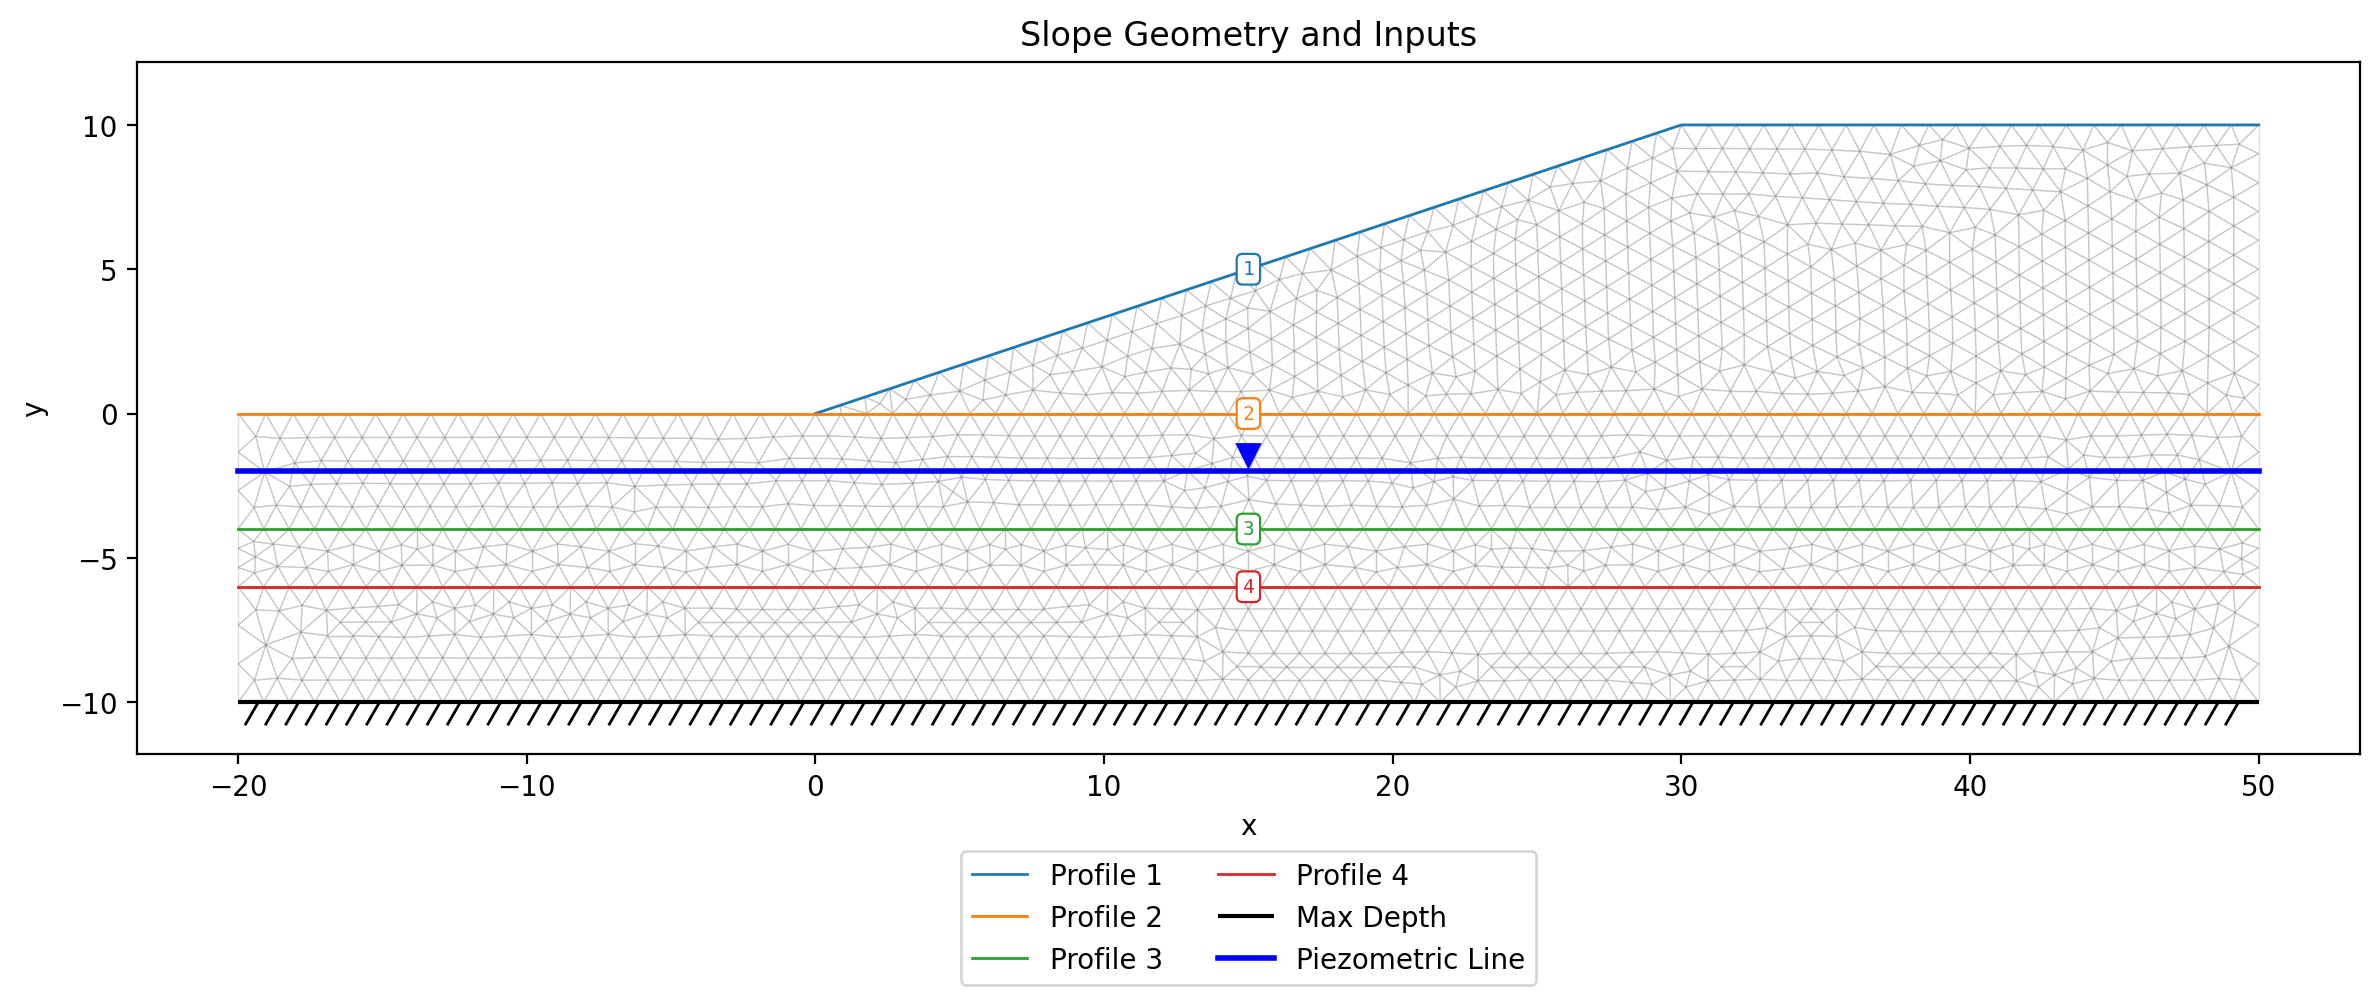
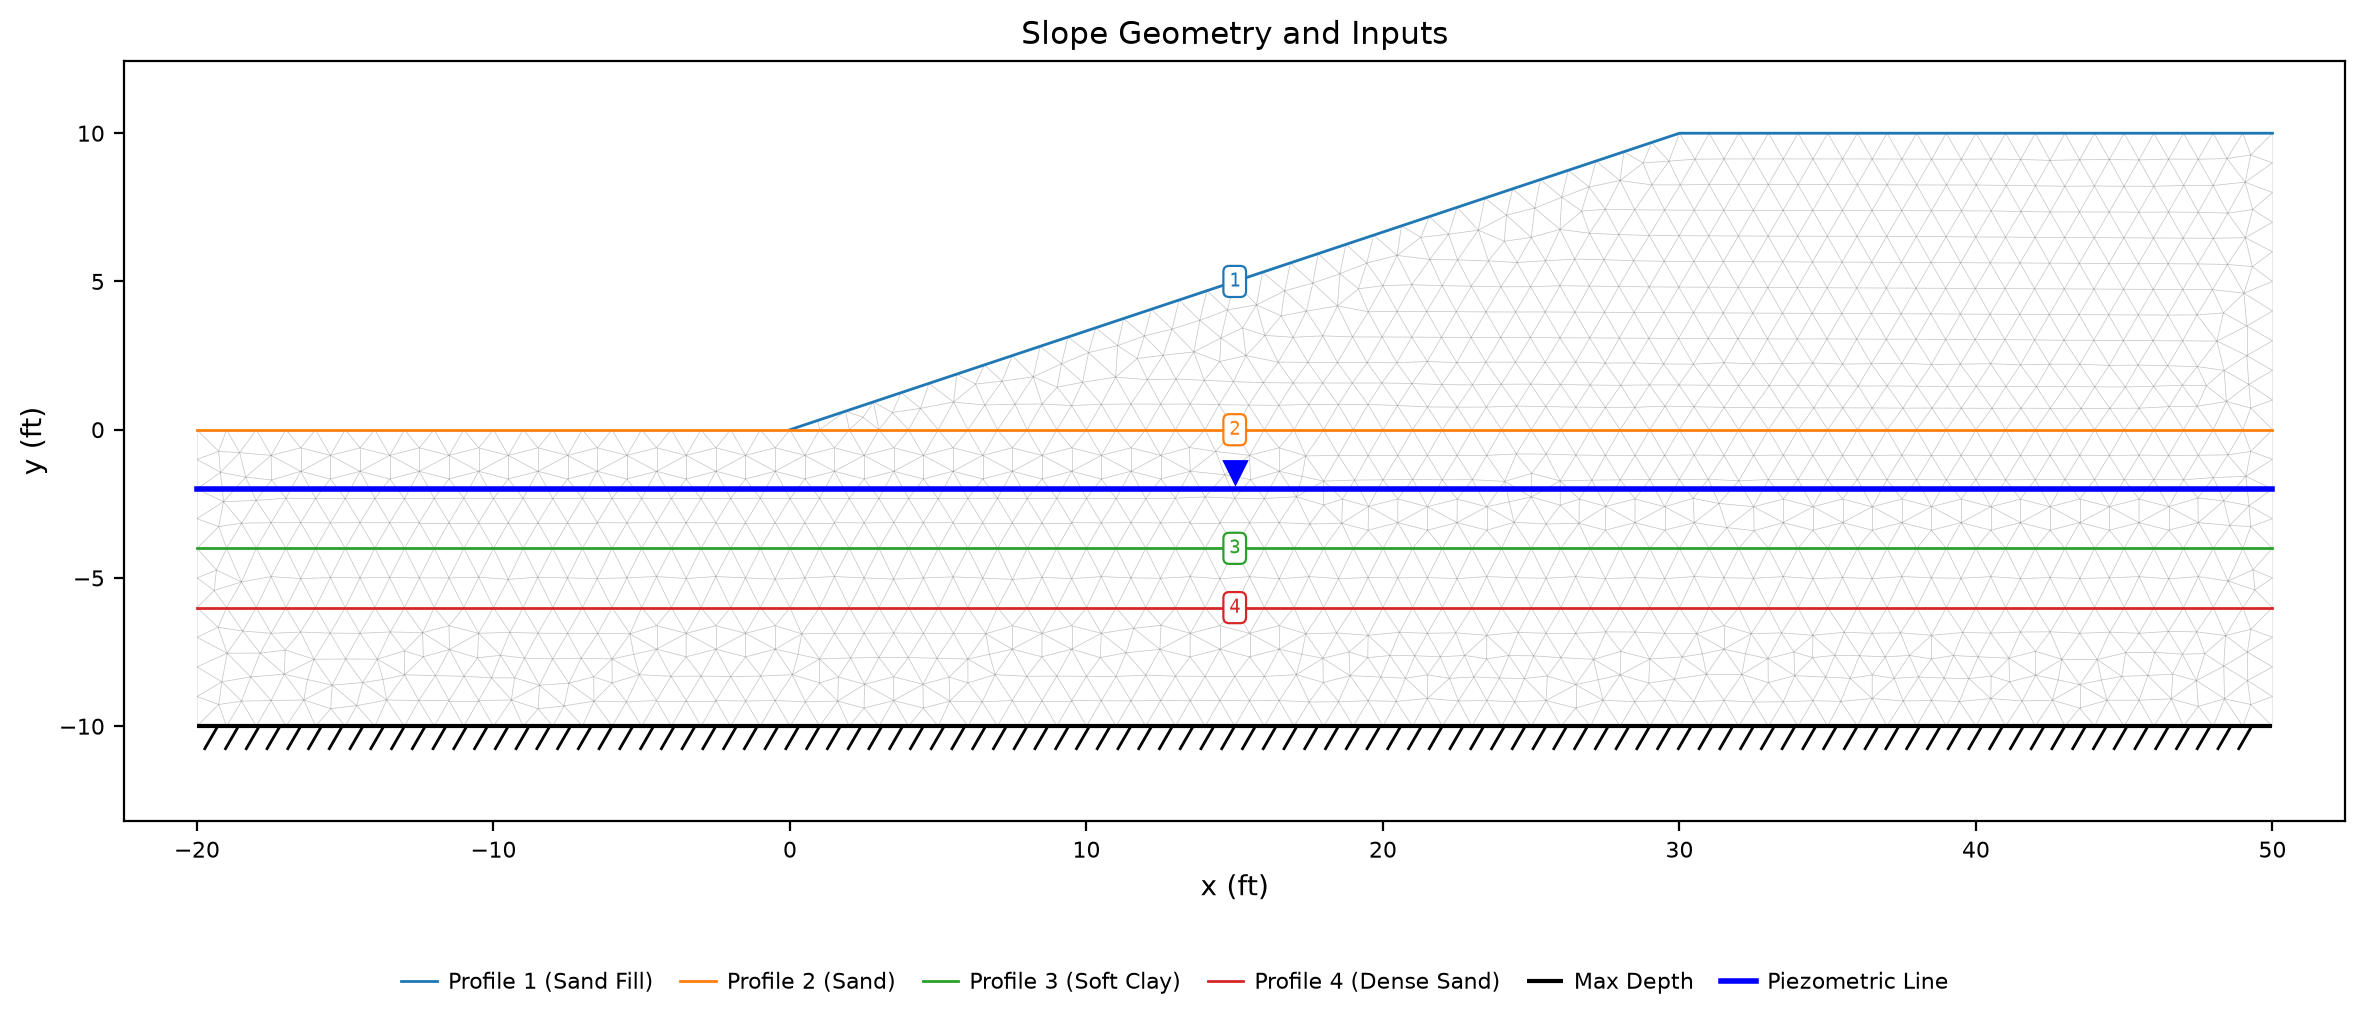
docs: remove unused figures and redraw FEM geometry from committed mesh

diff --git a/benchmarks/rocscience/make_rs2_figures.py b/benchmarks/rocscience/make_rs2_figures.py
@@ -183,54 +183,7 @@ EXTRA_CASES = [
 # This is a claim about the page, not a way to empty the audit, so it is enforced
 # both ways: an entry naming a row that is not registered, or a row that HAS a PNG,
 # is reported as a DEAD exemption and fails the audit exactly like a missing figure.
-EXPECTED_NO_FIGURE = {
-    # RS2-40's FE-seepage case under the depth filter: the filtered run reads one cell
-    # of its own bracket above the unconstrained one and selects the same mechanism,
-    # which RS2-40-seep.png already draws (values per the page tags).
-    'RS2-40-seep-d30': 'same mechanism as the unconstrained run in RS2-40-seep.png; the depth filter has no skin to remove',
-
-    # RS2-64 — C3 and C5 are the second and third short-term Original slopes. All
-    # three lock unconstrained on a simple convex profile and fail by the same deep
-    # rotation; C1 is figured.
-    'RS2-64c': 'same unconstrained deep rotation as C1 (RS2-64a.png); only the profile differs',
-    'RS2-64e': 'same unconstrained deep rotation as C1 (RS2-64a.png); only the profile differs',
-
-    # RS2-66 filter-off — the face skin is surface-parallel and does not depend on
-    # the soft-band thickness (the values are the page's tags, not repeated here).
-    # Both ends of the family are figured.
-    'RS2-66b': 'depth-independent face skin (values per the page tags); figured at both ends (RS2-66a.png, RS2-66e.png)',
-    'RS2-66c': 'depth-independent face skin (values per the page tags); figured at both ends (RS2-66a.png, RS2-66e.png)',
-    'RS2-66d': 'depth-independent face skin (values per the page tags); figured at both ends (RS2-66a.png, RS2-66e.png)',
-
-    # RS2-66 filtered — one deep basal squeeze through the soft band, figured at the
-    # thinnest band where it separates furthest from the skin.
-    'RS2-66b-deep': 'same deep basal squeeze as RS2-66a-deep.png, through a thicker soft band',
-    'RS2-66c-deep': 'same deep basal squeeze as RS2-66a-deep.png, through a thicker soft band',
-    'RS2-66d-deep': 'same deep basal squeeze as RS2-66a-deep.png, through a thicker soft band',
-    'RS2-66e-deep': 'at h1 = 10 m the filtered run selects the same mechanism as the unfiltered one (values per the page tags) — RS2-66e.png IS this run',
-
-    # RS2-67 — six drawdown stages of one dam, two mechanisms between them: the
-    # unconstrained downstream face, and the upstream face when RS2's Search Area
-    # confines reduction to it. One of each is figured.
-    'RS2-67a': 'same downstream-face mechanism as RS2-67b.png, with no pore-pressure field',
-    'RS2-67c': 'same unconstrained downstream-face mechanism as RS2-67b.png, at the 90 h field',
-    'RS2-67e': 'same unconstrained downstream-face mechanism as RS2-67b.png, at the drained limit',
-    'RS2-67f': 'same Search-Area-confined upstream mechanism as RS2-67d.png, at the drained limit',
-
-    # RS2-24 — each case is locked at two meshes. The coarser one selects the same
-    # deep-seated mechanism through the soft clay (values per the page tags); the
-    # finer mesh is what the figure draws.
-    'RS2-24a-m2.0': 'same mechanism as RS2-24a.png, one mesh step coarser',
-    'RS2-24b-m2.0': 'same mechanism as RS2-24b.png, one mesh step coarser',
-
-    # RS2 Part IV VP102 — the drawdown mechanism is one downstream-face wedge at every
-    # frame of a monotone sequence. One frame of each case is figured: the mid-sequence
-    # phi_b = 0 baseline frame, and the phi_b = 37 frame that sets the dot.
-    'RS2-P4-VP102-t-60-c2': 'same downstream-face wedge as RS2-P4-VP102-t-300-c2.png, at an earlier frame',
-    'RS2-P4-VP102-t-1500-c2': 'same downstream-face wedge as RS2-P4-VP102-t-300-c2.png, at a later frame',
-    'RS2-P4-VP102-t-60-c3': 'same downstream-face wedge as RS2-P4-VP102-t-1500-c3.png, at an earlier frame',
-    'RS2-P4-VP102-t-300-c3': 'same downstream-face wedge as RS2-P4-VP102-t-1500-c3.png, at an earlier frame',
-}
+EXPECTED_NO_FIGURE = {}
 
 
 # Sidecar stem overrides. ``make_figure`` writes the exported field next to the case

diff --git a/tools/make_fem_docs_sidecars.py b/tools/make_fem_docs_sidecars.py
@@ -40,6 +40,8 @@ are defined on.
     PYTHONPATH=. python3 tools/make_fem_docs_sidecars.py               # every model
     PYTHONPATH=. python3 tools/make_fem_docs_sidecars.py noncircular   # one
     PYTHONPATH=. python3 tools/make_fem_docs_sidecars.py --meshes-only # mesh only
+    PYTHONPATH=. python3 tools/make_fem_docs_sidecars.py --geometry-only noncircular
+        # redraw inputs and mesh from the committed companion, without a solve
     PYTHONPATH=. python3 tools/make_fem_docs_sidecars.py --capture-only reinforce
         # rewrite only the at-failure files, from the model's stored search
         # record: the standing trial and the picture are solved, the search is not
@@ -179,6 +181,41 @@ RESULTS_FIGURE = {
 #: The resolution docs/fem results figures are written at, as
 #: ``benchmarks/make_griffiths_figures.py`` writes its own.
 FIGURE_DPI = 200
+
+
+GEOMETRY_FIGURES = {
+    "noncircular": ("non_circ_inputs.png", "non_circ_mesh.png"),
+}
+
+
+def draw_geometry(name):
+    """Draw the model and its committed mesh; never remesh, solve or export data."""
+    import matplotlib
+    matplotlib.use("Agg")
+    import matplotlib.pyplot as plt
+    from xslope.plot import plot_inputs
+    from xslope.plot_fem import plot_fem_data
+
+    path = os.path.join(REPO_ROOT, "docs", "fem", "files", TAGGED[name])
+    slope_data = load_slope_data(path)
+    mesh = slope_data.get("mesh")
+    if mesh is None:
+        raise RuntimeError(f"{name}: no committed mesh companion to draw")
+    fem_data = _quiet(build_fem_data, slope_data, mesh)
+    out = os.path.join(REPO_ROOT, "docs", "fem", "images")
+    plots = (
+        (plot_inputs, slope_data,
+         {"mode": "fem", "show_mesh": True, "frame": "content"}),
+        (plot_fem_data, fem_data, {}),
+    )
+    for filename, (plot, data, kwargs) in zip(GEOMETRY_FIGURES[name], plots):
+        try:
+            _quiet(plot, data, fig=plt.figure(figsize=(12, 7)), **kwargs)
+            plt.gcf().savefig(os.path.join(out, filename), dpi=FIGURE_DPI,
+                             bbox_inches="tight")
+        finally:
+            plt.close("all")
+        print(f"{name}: wrote {filename} ({len(mesh['elements'])} elements)")
 
 
 def _draw_results(name, fem_data, field, failure, fs):
@@ -338,6 +375,8 @@ def build_tagged(name):
                  "max_iter": int(tag["max_iter"]),
                  "expected_fs": expected},
     })
+    if name in GEOMETRY_FIGURES:
+        draw_geometry(name)
     _draw_results(name, fem_data, result["last_solution"],
                   result.get("failure_solution"), expected)
     print(f"{name}: FS = {fs:.4f} (tag {expected:.3f}), "
@@ -421,6 +460,12 @@ def build_mesh_only(name):
 def main(argv):
     wanted = [a for a in argv if not a.startswith("-")]
     meshes_only = "--meshes-only" in argv
+    if "--geometry-only" in argv:
+        if any(name not in GEOMETRY_FIGURES for name in wanted):
+            raise ValueError("--geometry-only accepts: " + ", ".join(GEOMETRY_FIGURES))
+        for name in wanted or GEOMETRY_FIGURES:
+            draw_geometry(name)
+        return 0
     if "--capture-only" in argv:
         failed = 0
         for name in list(TAGGED) + list(UNTAGGED) + list(COMMITTED_MESH):

diff --git a/tools/make_seep_sample_figures.py b/tools/make_seep_sample_figures.py
@@ -1,6 +1,6 @@
 """Regenerate the steady seepage flow-net figures for docs/seep/samples.md.
 
-These six ``docs/seep/images/<name>_solution.png`` panels had no committed
+These four ``docs/seep/images/<name>_solution.png`` panels had no committed
 generator (they were one-off manual saves), so they drifted from the page's
 locked flowrates as the solver evolved. This script is their deterministic,
 committed source: each figure is produced by the *same* mesh-and-solve code path
@@ -16,7 +16,7 @@ Solve configuration (identical to run_seep_test's defaults, which is what every
     build_seep_data(mesh, slope_data)          # default seep_bc=1
     run_seepage_analysis(seep, tol=1e-4, max_iter=400)
 
-Figure sizing (one coherent rule for all six, per the house frame spec —
+Figure sizing (one coherent rule for all four, per the house frame spec —
 equal aspect, uniform cushion, full-height colorbar, legend in reserved space,
 all supplied unchanged by plot_seep_solution): a *fixed figure width* and *dpi*
 so every panel comes out the same pixel width, with the height following each
@@ -47,7 +47,7 @@ OUT = "docs/seep/images"
 
 # Coherent sizing rule (see module docstring): a fixed figure width in inches and
 # a fixed dpi give every panel the same pixel width; the height tracks the domain
-# aspect so the flow net stays at one consistent scale across all six figures.
+# aspect so the flow net stays at one consistent scale across all four figures.
 FIG_W_IN = 11.0     # figure width (inches) -> ~FIG_W_IN*DPI px wide after tight crop
 AXES_W_FRAC = 0.80  # fraction of the width the equal-aspect axes span (rest: y-axis
                     # margin on the left, colorbar + label on the right)
@@ -68,13 +68,11 @@ DPI = 200
 #   demand hundreds of flow lines), and the single/through-flow layer otherwise.
 #   Matches the flow-net densities of the pre-existing (Norm-approved) figures.
 CASES = [
-    ("clay_blanket",  False, 1),   # saturated: sheetpile + clay blanket (1 material)
     ("sea_trench",    False, 2),   # saturated: trench; the silty clay below the
                                    # banks is the through-flow layer (the silt is
                                    # the upper bank material)
     ("earth_dam1",    True,  2),   # partially saturated: shell + core; base = core
     ("earth_dam1_vg", True,  2),   # same dam, van Genuchten model; base = core
-    ("johnson_res",   True,  3),   # shell/core/foundation; base = foundation
     ("earth_dam2",    True,  3),   # shell/filter/core; base = core
 ]
 

diff --git a/tools/make_earth_dam_tseep_figures.py b/tools/make_earth_dam_tseep_figures.py
@@ -1,7 +1,7 @@
 """Render the figures for the transient reservoir-drawdown seepage samples
 (docs/seep/samples.md).
 
-One deterministic script serves both transient samples — each is solved once
+One deterministic script serves the Johnson transient sample — it is solved once
 (serial) and rendered into the figures its page carries, in docs/seep/images/:
 
   <sample>_flownet.png   The time-stamped transient series: a handful of panels
@@ -41,7 +41,7 @@ The flow-net panels are rendered one-per-figure through the unchanged
 losslessly with Pillow. Deterministic: same mesh, same solve, same frames.
 
 Run from the repo root:
-  PYTHONPATH=. python3 tools/make_earth_dam_tseep_figures.py            # both
+  PYTHONPATH=. python3 tools/make_earth_dam_tseep_figures.py            # Johnson
   PYTHONPATH=. python3 tools/make_earth_dam_tseep_figures.py johnson    # one
 """
 
@@ -79,18 +79,6 @@ IMG = os.path.join(REPO_ROOT, "docs", "seep", "images")
 # panels       (time, label) pairs to stack in the flow-net series figure.
 # panel_size   per-panel figsize (in), sized to the domain aspect.
 SAMPLES = {
-    "earth_dam": dict(
-        xlsx="xslope_earth_dam_tseep.xlsx",
-        stem="earth_dam_tseep",
-        target=110.0 / 64.0,
-        panel_size=(8.6, 2.55),
-        panels=[(0, "full pool"), (15, "early drawdown"), (30, "mid drawdown"),
-                (47, "end of drawdown (max lag)"), (120, "recovery"),
-                (360, "quasi-equilibrium")],
-        # SEEP-3 builds this model input by input, so the sample entry carries
-        # the solved series alone and no inputs panel of its own.
-        inputs=False,
-    ),
     "johnson": dict(
         xlsx="xslope_johnson_res_tseep.xlsx",
         stem="johnson_res_tseep",

diff --git a/benchmarks/build_lem_figures.py b/benchmarks/build_lem_figures.py
@@ -82,28 +82,9 @@ OTHER_OWNERS = {"hassiotis_inputs", "hassiotis_results",
 #: the weak-layer model. It was sample section 7's search figure until that
 #: section shrank to its solution and table; docs/lem/search.md shows it as the
 #: illustration of plot_noncircular_search_results().
-#:
-#: mult_min_degenerate is section 13's first figure — the degenerate near-planar
-#: sliver that section warns about. It is not the run behind that section's tag,
-#: which solves the deep foundation circle the file carries, so it is drawn here
-#: instead: the same search LEM-10 draws for the same model
-#: (docs/tutorials/images/lem10_search_shallow.png), seeded with the generated
-#: embankment circles — the starting circles tangent to the top of the
-#: foundation. That seed is what collapses onto the sliver at FS = 1.299, the
-#: "FS ~ 1.30" the section's caption names. A search seeded with the deep circle
-#: on the file's own circles sheet no longer reaches the sliver at all.
-#:
-#: prob_submerged_reliability is section 15's figure: the Taylor-series run its
-#: first test tag locks (Spencer, searched), drawn with the F_MLV surface the
-#: page's summary table is read off.
 EXTRA_FIGURES = [
     dict(name="noncircular_search_results", xlsx="files/xslope_noncircular.xlsx",
          kind="search_results", ttype="noncircular_search"),
-    dict(name="mult_min_degenerate", xlsx="files/xslope_mult_min_KEY.xlsx",
-         kind="search_results", ttype="circular_search",
-         circles="generated_embankment"),
-    dict(name="prob_submerged_reliability",
-         xlsx="files/xslope_prob_submerged_KEY.xlsx", kind="reliability"),
 ]
 
 
